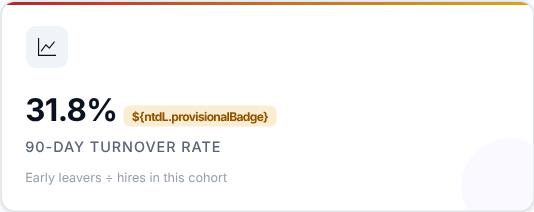
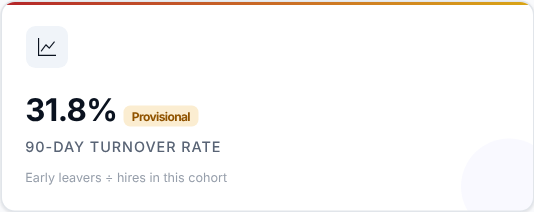
User guide: content for all pages, mask fix, more captures (work in progress)
Claude-Session: https://claude.ai/code/session_019dELNUNjVMr3Ja2mUwBrCu

Changed region(s): [[0.2397, 0.4811, 0.5393, 0.5943]]

diff --git a/docs/user-guide/content/en/actioncenter.js b/docs/user-guide/content/en/actioncenter.js
@@ -1,0 +1,46 @@
+module.exports = { title: 'Action Center', blocks: [
+  { where: 'Side menu  >  Action Center' },
+  { p: 'Use this page as your worklist of stores that need action. It scores every store you can access on a Store Health Index - a single 0-100 score where 100 means healthy - and lists the stores that tripped one of the 7 detection signals and got an Action Plan opened. This page always shows the current state of open and resolved plans, so there is no period filter.' },
+
+  { h2: 'Step 1 - Read the headline numbers' },
+  { grid: ['kpi_average_health_score', 'kpi_critical_stores', 'kpi_high_risk', 'kpi_active_plans', 'kpi_stalled_plans', 'kpi_resolved_this_month'], perRow: 3, w: 190 },
+  { defs: { head: ['Card', 'What it shows'], rows: [
+    ['Average Health Score', 'Company-wide store health (100 = healthy).'],
+    ['Critical Stores', 'Highest weighted risk - act first.'],
+    ['High Risk', 'Well above the company baseline.'],
+    ['Active Plans', 'Stores with an open action plan.'],
+    ['Stalled Plans', 'Open 45+ days with no task completed.'],
+    ['Resolved This Month', 'Plans closed in the current month.'],
+  ] } },
+  { look: 'Critical Stores and Stalled Plans first.' },
+  { decide: 'critical stores need action first; stalled plans need someone to follow up with the owner.' },
+
+  { h2: 'Step 2 - Read the Smart Insights' }, { img: 'insights', w: 600 },
+  { p: 'Automatic takeaways about the stores that need attention, worked out from the same data.' },
+
+  { h2: 'Step 3 - What is dragging health down?' }, { img: 'risk_drivers_pillar_impact', w: 600 },
+  { p: 'Risk Drivers show the average weighted contribution of each pillar to company-wide risk, so you can see which dimension (turnover, engagement, leadership...) is pulling health down across the network. The Store Health Index is built from six weighted pillars: Overall Turnover (24%), Early Attrition (20%), Engagement (18%), 6-Month Retention (16%), Workforce Outlook (12%) and Leadership Stability (10%).' },
+  { img: 'root_cause_breakdown_exit_drivers', w: 600 },
+  { p: 'The Root-Cause Breakdown shows the company-wide negative-response rate for each exit-interview dimension (fairness, workload, communication, training...). It replaces a vague "culture" label with the specific driver that leaving employees actually flagged.' },
+
+  { h2: 'Step 4 - Which stores need action?' }, { img: 'ach', w: 600 },
+  { p: 'The store scorecard: health score, tier, top driving pillar, the pillar strip, impact-weighted priority, headcount, plan status, the responsible person and task progress. Click a column header to sort, and use the search box to filter by store or responsible name. Open a store for its full breakdown and its Weighted Action Plan.' },
+  { look: 'stores in the Critical tier, and their Top Driver.' },
+  { decide: 'agree with the responsible person what will be done about the top driver, and check progress at your next visit.' },
+
+  { h2: 'Step 5 - Are plans being opened and resolved?' }, { img: 'plans_opened_vs_resolved_last_6_months', w: 600 },
+  { p: 'Plans opened against plans resolved over the last 6 months. If more plans open than close, open plans are piling up.' },
+
+  { h2: 'How an Action Plan is created' },
+  { p: 'An Action Plan opens automatically the first time any one of these 7 signals fires for a store that has no plan open, using that period\'s uploaded data:' },
+  { defs: { head: ['Signal', 'When it fires'], rows: [
+    ['High Overall Turnover', 'Headcount of 5 or more and overall turnover rate at or above 15%.'],
+    ['Early Turnover (90 Days)', '3 or more hires in a non-provisional period and an early-leaver rate at or above 30%.'],
+    ['Low 6-Month Retention', '3 or more hires and 6-month retention below 70%.'],
+    ['Leadership Instability', '2 or more different Store Leaders recorded in the trailing 6 months.'],
+    ['Low Exit Sentiment', '2 or more exit interviews with positive sentiment below 50%.'],
+    ['Reason Concentration', '2 or more exit-interview reason responses where one reason is cited in 50% or more of them.'],
+    ['Early-Warning Watchlist', '2 or more currently active employees flagged high-risk.'],
+  ] } },
+  { p: 'A store only ever has one Active plan at a time: a new signal firing while a plan is open is added to that same plan. Severity (Medium / High / Critical) is worked out from how many signals are on the plan. Each plan gets a Target Resolution Date when it opens - 90 days out, or 30 days if it is already Critical - and resolves automatically once its store shows no signals for 2 consecutive evaluated periods. See the Action Plan Guide, next, for the full explanation.' },
+] };

diff --git a/docs/user-guide/tools/capture.js b/docs/user-guide/tools/capture.js
@@ -65,7 +65,7 @@ async function shoot(page, key, lang) {
       });
       return list;
     });
-    elements = [def.filters || { name: 'filters', union: 'select, .reset-filters-btn' }, { name: 'kpi', sel: '.kpi-card', each: '.kpi-label' }, ...(def.extra || [])];
+    elements = [def.filters || { name: 'filters', union: 'auto-filters' }, { name: 'kpi', sel: '.kpi-card', each: '.kpi-label' }, ...(def.extra || [])];
     const used = new Set();
     for (const f of found) {
       let n = slug((f.id || f.title || f.tid.replace(/Body$/, '') || 'insights').replace(/Card$/, ''));
@@ -73,11 +73,24 @@ async function shoot(page, key, lang) {
       elements.push({ name: n, sel: `[data-gcap="c${f.i}"]`, maxH: f.table ? (def.maxH || 640) : undefined });
     }
   }
+  const only = (process.argv[4] || '').split(',').filter(Boolean);
+  if (only.length) elements = elements.filter(e => only.some(o => e.name.startsWith(o)));
   for (const el of elements) {
     const targets = [];
     if (el.union) {
       if (!(await page.locator('select:visible, .reset-filters-btn:visible').count())) continue;
       const box = await page.evaluate(sel => {
+        if (sel === 'auto-filters') {
+          // from the top of the page header down to the lowest filter control that sits above the first card
+          const vis = e => e.offsetParent !== null && e.getBoundingClientRect().height > 0;
+          const first = [...document.querySelectorAll('.kpi-grid,.chart-card,.charts-grid,.cmp-kpi-grid')].filter(vis).map(e => e.getBoundingClientRect().top);
+          const limit = first.length ? Math.min(...first) : Infinity;
+          const hdr = document.querySelector('.page-header');
+          const rs = [hdr, ...document.querySelectorAll('.page-content select, .page-content input, .page-content button, .page-content [class*=select], .page-content [class*=dropdown], .page-content [class*=filter]')]
+            .filter(e => e && vis(e) && !e.closest('.page-guide-panel') && !e.classList.contains('page-guide-orb')).map(e => e.getBoundingClientRect()).filter(r => r.top < limit - 4 && r.width > 20);
+          const x = Math.min(...rs.map(a => a.left)), y = Math.min(...rs.map(a => a.top));
+          return { x, y, width: Math.max(...rs.map(a => a.right)) - x, height: Math.min(Math.max(...rs.map(a => a.bottom)), limit - 6) - y };
+        }
         const r = [...document.querySelectorAll(sel)].filter(e => e.offsetParent).map(e => (e.closest('[class*=select-wrap]') || e).getBoundingClientRect());
         const x = Math.min(...r.map(a => a.left)), y = Math.min(...r.map(a => a.top));
         return { x, y, width: Math.max(...r.map(a => a.right)) - x, height: Math.max(...r.map(a => a.bottom)) - y };
@@ -85,12 +98,12 @@ async function shoot(page, key, lang) {
       targets.push({ file: el.name, box: { x: Math.max(box.x - 8, 0), y: box.y - 8, width: box.width + 16, height: box.height + 16 } });
     } else {
       const base = page.locator(el.sel);
-      const n = el.each ? await base.count() : 1;
+      const n = el.each ? Math.min(await base.count(), el.limit || 99) : 1;
       for (let i = 0; i < n; i++) {
         const loc = el.xpath ? base.first().locator('xpath=' + el.xpath) : up(el.each ? base.nth(i) : base.first(), el.up);
         const box = await loc.boundingBox(); if (!box) continue;
         let file = el.name;
-        if (el.each) file += '_' + slug(await loc.locator(el.each).first().innerText());
+        if (el.each) file += '_' + (typeof el.each === 'string' ? slug(await loc.locator(el.each).first().innerText()) : i + 1);
         targets.push({ file, box: { x: box.x, y: box.y, width: box.width, height: el.maxH ? Math.min(box.height, el.maxH) : box.height } });
       }
     }

diff --git a/docs/user-guide/content/en/actionplanguide.js b/docs/user-guide/content/en/actionplanguide.js
@@ -1,0 +1,27 @@
+module.exports = { title: 'Action Plan Guide', blocks: [
+  { where: 'Side menu  >  Action Center  >  Action Plan Guide' },
+  { p: 'This is the portal\'s own reference page. It explains, in plain business language, how the Action Center works end to end: how every store\'s Store Health Index is computed from six weighted pillars, how the specific root cause behind each pillar is surfaced (including the real exit-interview drivers rather than a vague "culture" label), how a formal Action Plan is triggered and tracked, and how a weighted, evidence-linked action plan is generated and eventually closed. It is read-only and does not change any data or settings.' },
+
+  { h2: 'What is on the page' }, { img: 'intro', w: 600 },
+  { img: 'accordion', w: 600 },
+  { p: 'The page is a list of sections. Click a section title to open it, and click it again to close it.' },
+  { defs: { head: ['Section', 'What it explains'], rows: [
+    ['What Is an Action Plan?', 'What a formal Action Plan is.'],
+    ['Two Layers: Continuous Health Score + Formal Action Plan', 'The difference between the health score every store always has, and the formal plan that opens only when a signal fires.'],
+    ['The Six Health Pillars', 'The six pillars behind the Store Health Index and their weights.'],
+    ['How the Health Score Is Computed', 'How each pillar is compared with the company average and combined into a 0-100 score.'],
+    ['Health Severity Tiers', 'The tiers a health score falls into (Critical, High, Medium, Low, Healthy).'],
+    ['Root-Cause Diagnosis: Engagement Drivers', 'How the exit-interview drivers behind the engagement pillar are surfaced.'],
+    ['Workforce Outlook', 'How the number of high-risk employees and a store being below its projected headcount feed the health score.'],
+    ['Action Plan Lifecycle', 'The stages a plan goes through, from signal to closure.'],
+    ['Signal Detection and Persistence Rule', 'The 7 signals that can open a plan, and when a signal counts as persistent.'],
+    ['Plan Severity vs. Health Tier', 'Why a plan\'s severity and a store\'s health tier are two different things.'],
+    ['Target Resolution Date', 'How the target date is set (90 days, or 30 days if the plan is already Critical).'],
+    ['The Weighted Action Plan', 'How concrete actions are ranked by impact.'],
+    ['Inside a Store\'s Action Center Detail Page', 'What you will find when you open a store.'],
+    ['Monthly Monitoring, Healthy Streak, Closure & Outcomes', 'How a plan is tracked, and how and when it closes.'],
+    ['Continuing vs. Chronic / Recurring', 'How repeated plans are labelled.'],
+    ['End-to-End Example', 'A worked example from signal to closure.'],
+  ] }, widths: [3600, 5800] },
+  { decide: 'read "What Is an Action Plan?" and "The Six Health Pillars" first, then use the rest as a reference whenever a number on the Action Center page raises a question.' },
+] };

diff --git a/docs/user-guide/content/en/stores.js b/docs/user-guide/content/en/stores.js
@@ -1,0 +1,27 @@
+module.exports = { title: 'Stores', blocks: [
+  { where: 'Side menu  >  Stores' },
+  { p: 'Use this page as a directory of every store. Each store has a card showing its headcount, turnover rate, resignations, Operation Consultant / Operation Manager and a health status at a glance, for the selected period.' },
+
+  { h2: 'Step 1 - Choose the period and your scope' }, { img: 'filters', w: 600 },
+  { p: 'The period selector picks which month\'s snapshot is shown. Choosing an Operation Manager, Operation Consultant, Senior Operation Consultant or Operation Director filters the cards to just their stores. The Sort dropdown and the search box do not filter data - they only change how the cards are ordered and found.' },
+
+  { h2: 'Step 2 - Read the company-wide totals' },
+  { grid: ['kpi_total_stores', 'kpi_total_headcount', 'kpi_total_resignations', 'kpi_avg_turnover_rate', 'kpi_critical_high_stores', 'kpi_stores_with_high_risk_staff'], perRow: 3, w: 190 },
+  { p: 'Totals for the selected period across every store: number of stores, headcount, resignations and the average turnover rate, plus how many stores have a Critical or High severity action plan and how many have high-risk staff on the Early Warning list.' },
+
+  { h2: 'Step 3 - Read the Smart Insights' }, { img: 'insights', w: 600 },
+  { p: 'Automatic takeaways: the best performing store, the store needing the most attention, how many stores have a Critical or High action plan, the change in average turnover against the previous period, and the Early Warning signals.' },
+
+  { h2: 'Step 4 - Browse the store cards' }, { img: 'cards_row', w: 600 },
+  { p: 'One card per store. Each card shows:' },
+  { bullets: [
+    'the store name, its number of employees and a health badge (Good / Watch / Critical) based on its turnover rate against the configured thresholds;',
+    'the turnover rate, with the change against the previous period;',
+    'its Operation Consultant / Operation Manager and its resignations;',
+    'badges such as the action plan severity and the number of high-risk employees;',
+    'when the store has a projection for the selected month, its staffing: actual headcount as a percentage of projected headcount - green (95-100%), amber (85-95%), red (below 85%) or blue (above 100%).',
+  ] },
+  { p: 'If the store has an open action plan, the card links to that store\'s Action Center detail.' },
+  { look: 'cards marked Critical, and a staffing figure in red.' },
+  { decide: 'sort the cards by Turnover Rate (high to low), which is the default, and start with the first row.' },
+] };

diff --git a/docs/user-guide/content/en/scorecard.js b/docs/user-guide/content/en/scorecard.js
@@ -1,0 +1,24 @@
+module.exports = { title: 'Scorecard', blocks: [
+  { where: 'Side menu  >  Scorecard' },
+  { p: 'Use this page to compare Store Leaders. It scores every Store Leader (and rolls that up by Operation Consultant and Operation Manager) on four metrics: Turnover Rate, Early Leaver (90-Day) Rate, 180-Day Retention Rate and Exit Sentiment, so leadership performance can be ranked and tracked over time, not just store performance.' },
+
+  { h2: 'Step 1 - Choose the period and your reporting line' }, { img: 'filters', w: 600 },
+  { p: 'Choosing an Operation Manager, Operation Consultant, Senior Operation Consultant or Operation Director filters the ranking and the rollups to just their reporting line. The Year/Months filter sets which period\'s data feeds every metric on the page.' },
+
+  { h2: 'Step 2 - Read the headline numbers' },
+  { grid: ['kpi_store_leaders', 'kpi_total_headcount', 'kpi_average_turnover', 'kpi_above_average'], perRow: 3, w: 190 },
+  { look: 'Average Turnover and how many leaders are Above Average.' },
+
+  { h2: 'Step 3 - Read the Smart Insights' }, { img: 'scinsights', w: 600 },
+  { p: 'Automatic takeaways, such as the best performing leader, worked out from the ranking below.' },
+
+  { h2: 'Step 4 - Rank the Store Leaders' }, { img: 'sc', w: 600 },
+  { p: 'Every Store Leader ranked by Turnover Rate, Early Leaver Rate, 180-Day Retention Rate and Exit Sentiment side by side. It is sorted with the worst Turnover Rate first by default - click any column header to re-sort, and use the search box to find a leader.' },
+  { p: 'Click a Store Leader to see their turnover rate trend over time across every store they have led, including a marker where they were transferred between stores, so a change in rate can be told apart from a change of store.' },
+  { look: 'leaders who are weak on several of the four metrics at once, not just one.' },
+  { decide: 'agree support or coaching with the Operation Consultant of the leaders at the top of the list.' },
+
+  { h2: 'Step 5 - Who oversees the weakest leaders?' },
+  { img: 'by_operation_consultant', w: 600 }, { img: 'by_operation_manager', w: 600 }, { img: 'by_senior_operation_consultant', w: 600 }, { img: 'by_operation_director', w: 600 },
+  { p: 'For each Operation Consultant, Operation Manager, Senior Operation Consultant and Operation Director: how many Store Leaders they oversee, how many of those leaders are "flagged" (performing poorly on the ranking above) and what percentage that represents.' },
+] };

diff --git a/docs/user-guide/tools/mask.js b/docs/user-guide/tools/mask.js
@@ -21,10 +21,12 @@ async function maskPage(page, lang = 'en') {
   const found = await page.evaluate(() => {
     const out = { stores: [], people: { oc: [], od: [], om: [], soc: [] } };
     document.querySelectorAll('select').forEach(sel => {
-      const k = sel.id.toLowerCase().replace(/select$/, '');
+      const k = sel.id.replace(/Select$/, '');
       const opts = [...sel.options].slice(1).map(o => o.text.trim()).filter(Boolean);
-      const role = /soc$/.test(k) ? 'soc' : /oc$/.test(k) ? 'oc' : /om$/.test(k) ? 'om' : /od$/.test(k) ? 'od' : null;
-      if (/store$/.test(k)) opts.forEach(t => { const m = t.match(/^(\d{5,})\s*\|\s*(.+)$/); if (m) out.stores.push([m[1], m[2].trim()]); });
+      // ids look like ocSelect / odSelect / ctOc / wpSoc - the role must be a whole word (not the end of "period")
+      const m = k.match(/^(soc|oc|om|od)$|[a-z](Soc|Oc|Om|Od)$/);
+      const role = m ? (m[1] || m[2]).toLowerCase() : null;
+      if (/store$/i.test(k)) opts.forEach(t => { const m = t.match(/^(\d{5,})\s*\|\s*(.+)$/); if (m) out.stores.push([m[1], m[2].trim()]); });
       else if (role) out.people[role].push(...opts);
     });
     // names that only appear inside table columns (store leaders, employees, responsible people)
@@ -70,7 +72,7 @@ async function maskPage(page, lang = 'en') {
     }
     for (const role of ['soc', 'oc', 'od', 'om', 'leader']) { // 'emp' is handled per table column (thousands of names would make this slow)
       Object.entries(map.people[role] || {}).sort((a, b) => b[0].length - a[0].length).forEach(([name, n]) => {
-        rules.push([new RegExp(esc(name), 'g'), (role === 'emp' ? labels.emp : labels[role]) + ' ' + dg(n)]);
+        rules.push([new RegExp((role === 'leader' ? '(?:' + esc(labels.leader) + '\\s+)?' : '') + esc(name), 'g'), labels[role] + ' ' + dg(n)]);
         secrets.push(name);
       });
     }

diff --git a/docs/user-guide/content/en/comparisons.js b/docs/user-guide/content/en/comparisons.js
@@ -3,7 +3,7 @@ module.exports = { title: 'Comparisons', blocks: [
   { p: 'Use this page to see whether things got better or worse. It compares two periods side by side, Period A and Period B, each with its own independent filters. Every card, chart and table shows both periods together plus the change between them.' },
 
   { h2: 'Step 1 - Choose the two periods' }, { img: 'filters', w: 600 },
-  { p: 'Period A and Period B each have their own year, months, store, Operation Manager, Operation Consultant, Senior Operation Consultant and Operation Director filters - they do not have to match. "Copy to last year" fills Period B with the same filters as Period A but one year earlier, which is the quickest way to compare year over year.' },
+  { p: 'Period A and Period B each have their own year, months, store, Operation Manager, Operation Consultant, Senior Operation Consultant and Operation Director filters - they do not have to match. The "Same months as A, last year" button fills Period B with the same filters as Period A but one year earlier, which is the quickest way to compare year over year.' },
 
   { h2: 'Step 2 - Read the Smart Insights' }, { img: 'insights', w: 600 },
   { p: 'Automatic sentences that summarise how Period A compares with Period B for your current filters.' },

diff --git a/docs/user-guide/tools/pages.js b/docs/user-guide/tools/pages.js
@@ -67,5 +67,17 @@ module.exports = {
   earlywarning:      { url: '/home/dashboard/earlywarning', auto: true, ready: '#ewHighRiskBody tr' },
   scorecard:         { url: '/home/dashboard/scorecard', auto: true, ready: '#scBody tr' },
   actioncenter:      { url: '/home/dashboard/actioncenter', auto: true },
-  stores:            { url: '/home/dashboard/stores', auto: true, timeout: 150000, maxH: 560 },
+  stores: { url: '/home/dashboard/stores', ready: '#storeCardsContainer > *', timeout: 150000, elements: [
+    { name: 'filters', sel: '.page-header' },
+    { name: 'kpi', sel: '#stSummaryCards .kpi-card', each: '.kpi-label' },
+    { name: 'insights', sel: '#stInsightsCard' },
+    { name: 'cards_row', sel: '#storeCardsContainer', maxH: 340 },
+  ] },
+  reports: { url: '/home/dashboard/reports', ready: '.row.g-4.mb-4', elements: [
+    { name: 'section', sel: '.page-content > .row.g-4.mb-4', each: true },
+  ] },
+  actionplanguide: { url: '/home/dashboard/actionplanguide', ready: '#apgAccordion', elements: [
+    { name: 'intro', sel: '.apg-card.chart-card' },
+    { name: 'accordion', sel: '#apgAccordion' },
+  ] },
 };
